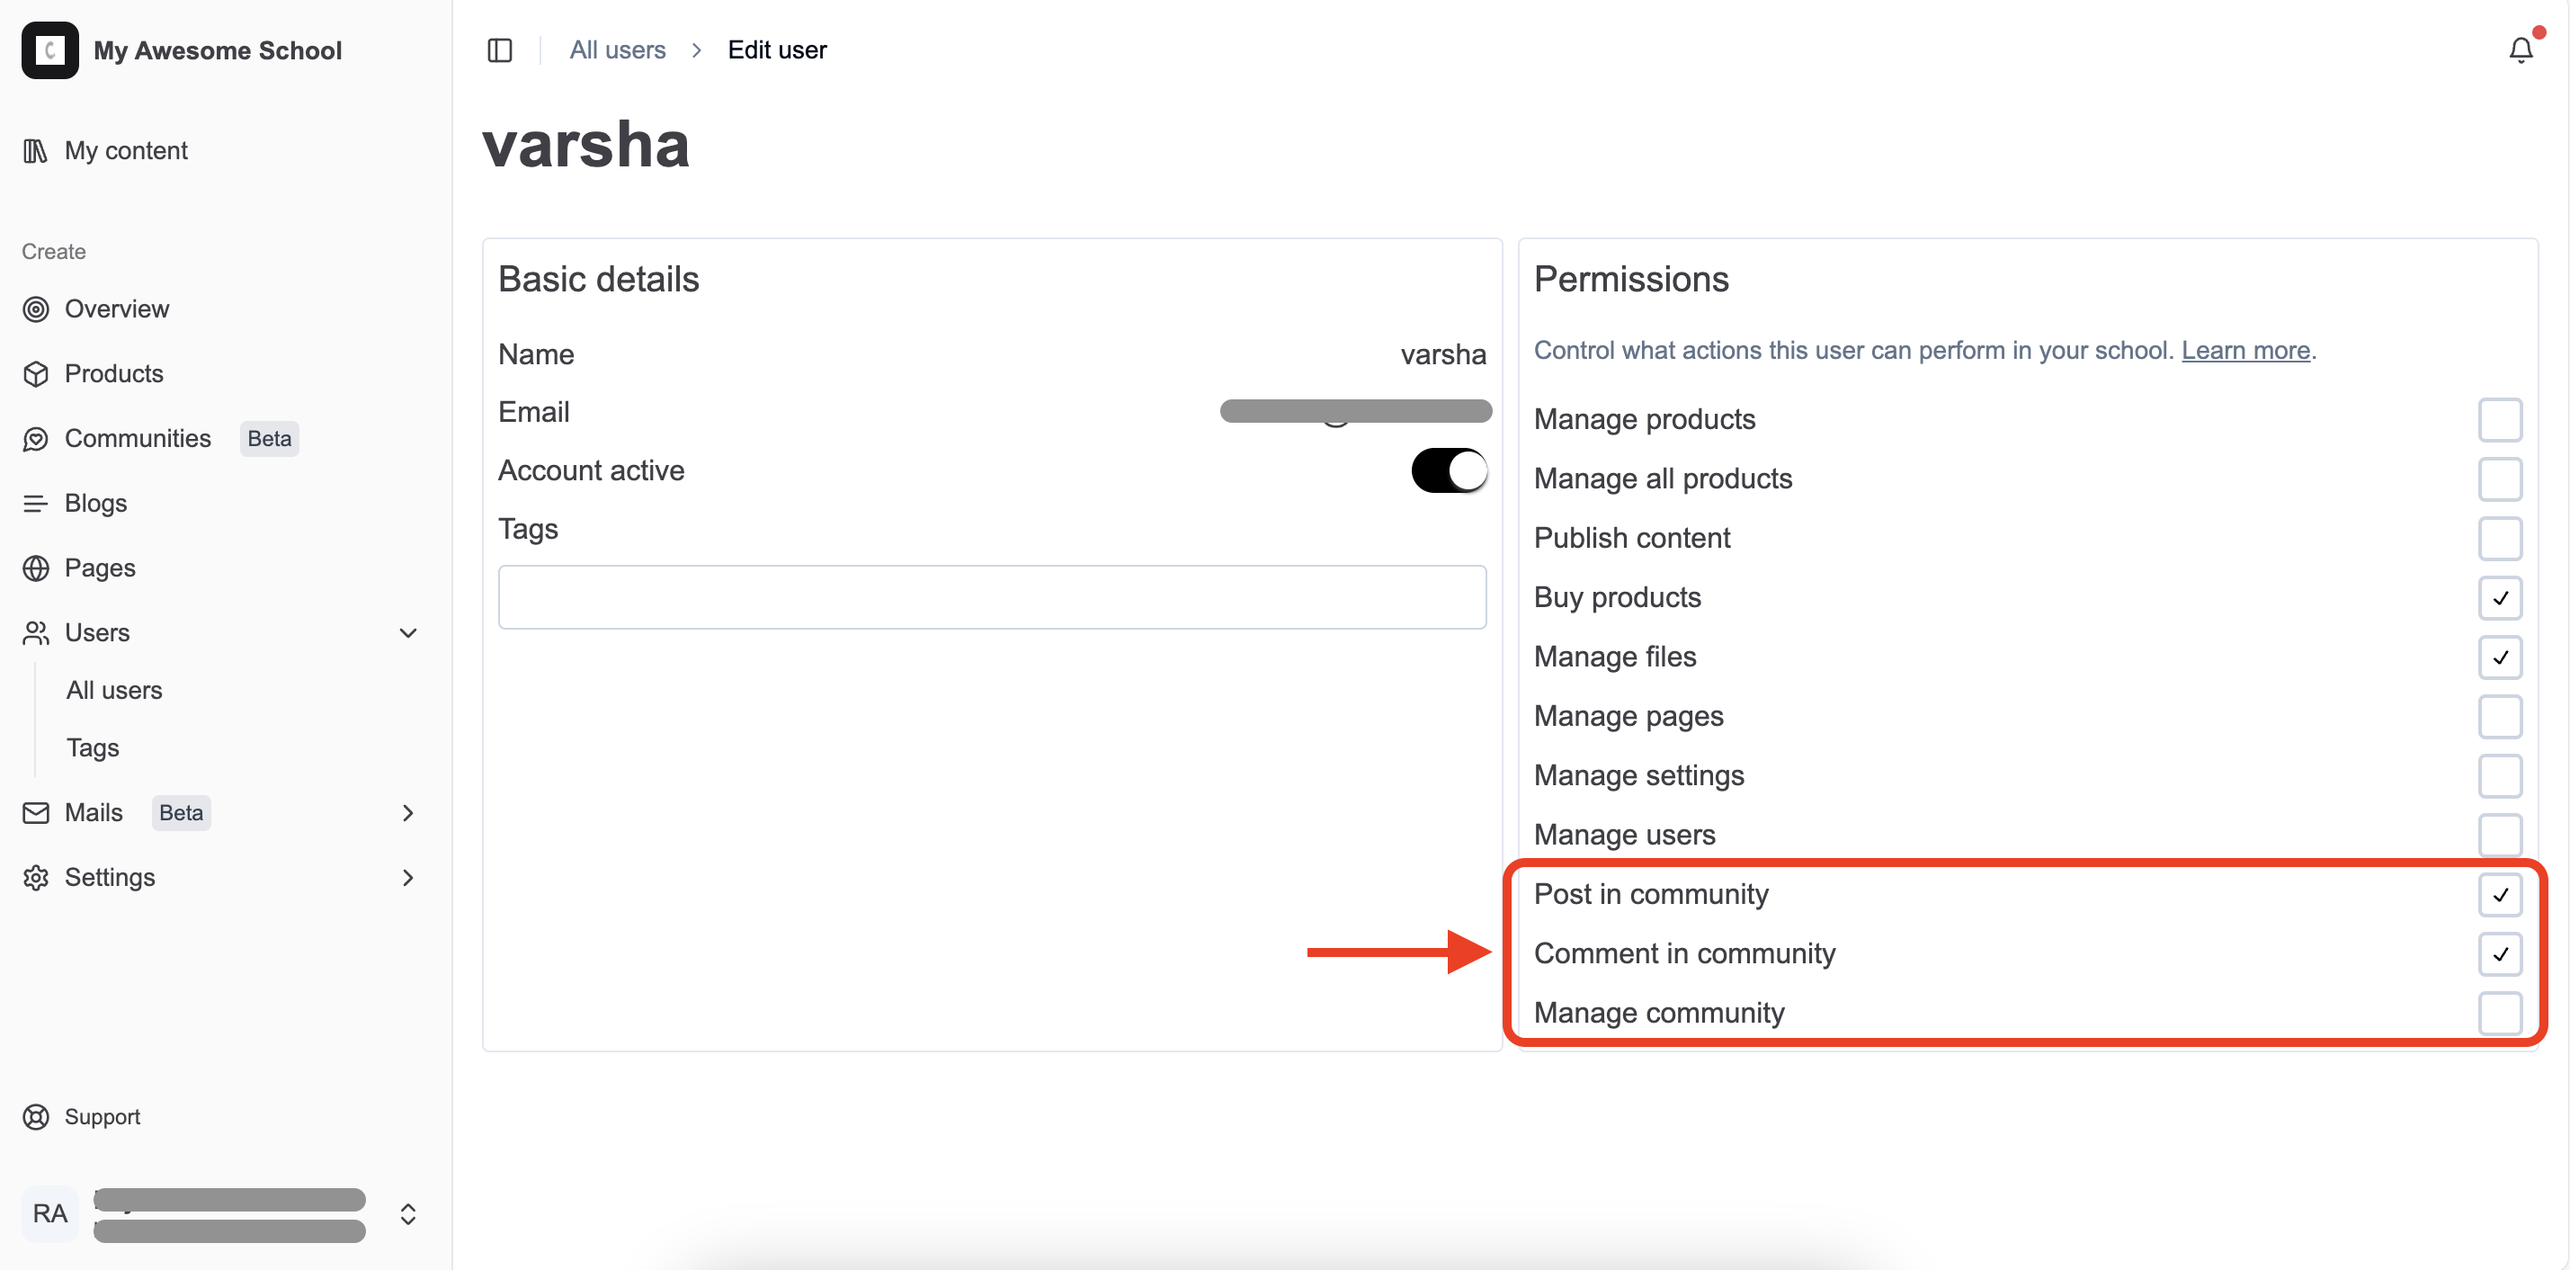
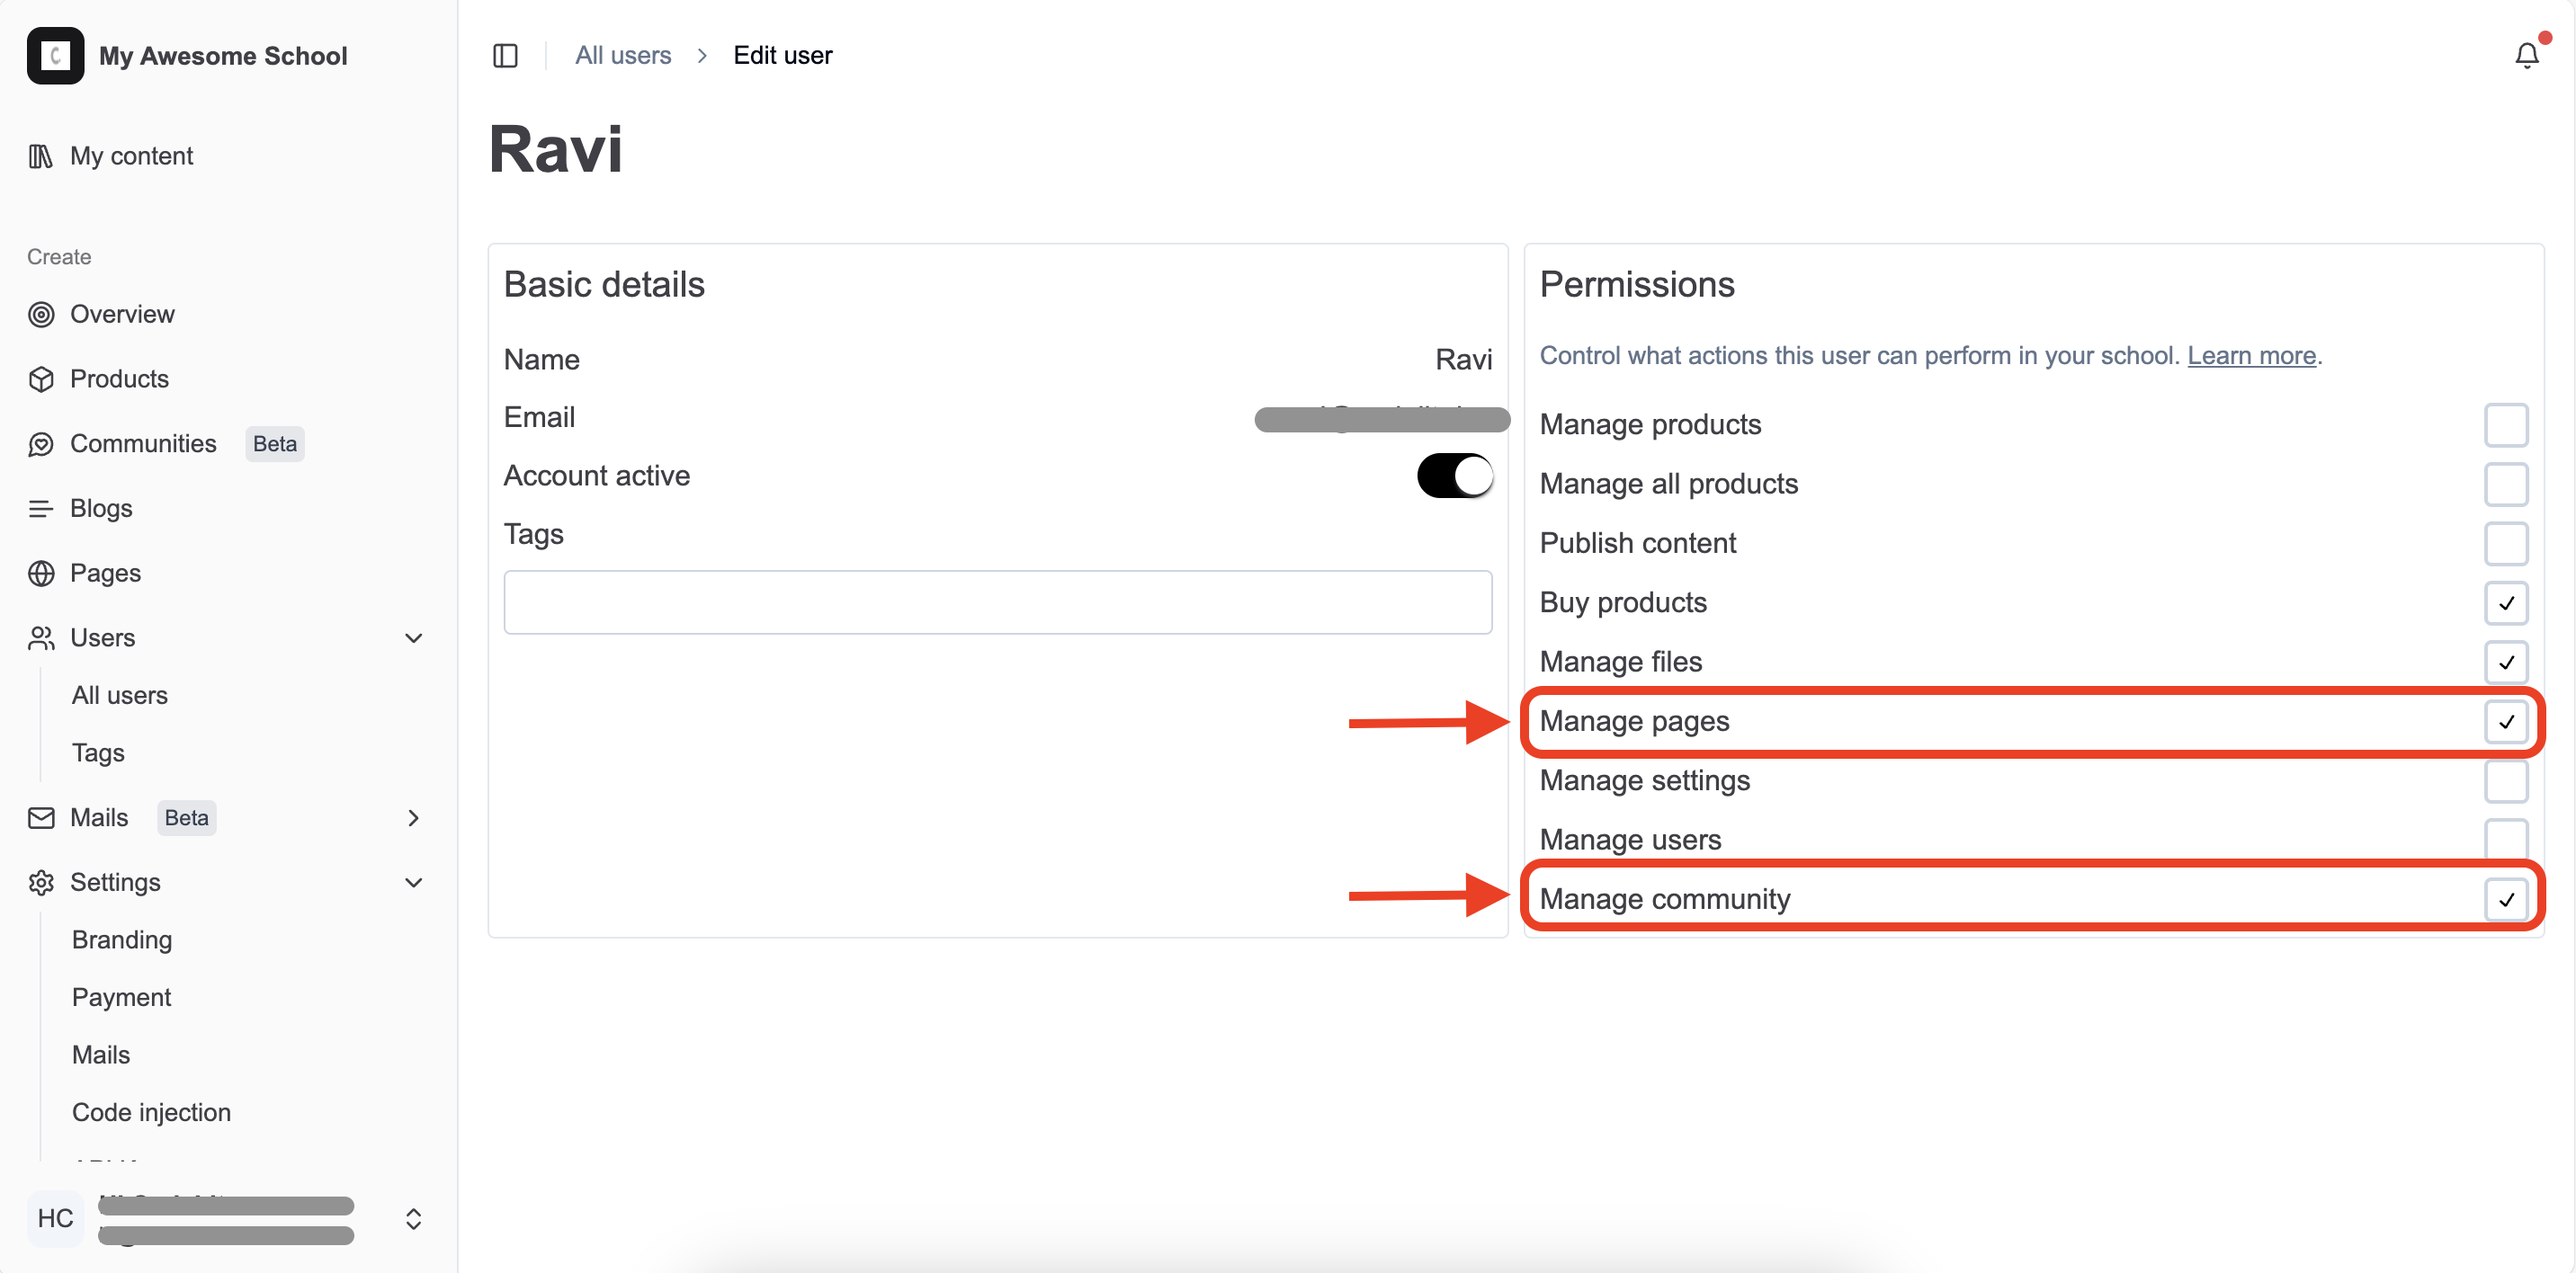
Updated docs.

diff --git a/apps/docs/src/pages/en/communities/manage-members.md b/apps/docs/src/pages/en/communities/manage-members.md
@@ -8,7 +8,7 @@ Managing members in your community is essential for maintaining an active and en
 
 > The feature is currently in beta, which means you may encounter bugs. Please report them in our <a href="https://discord.com/invite/GR4bQsN" target="_blank">Discord</a> group if you run into any.
 
-### Viewing Memberships
+## Viewing Memberships
 
 1. Navigate to the **Memberships** section in your community dashboard.
 2. Here, you can see a list of all members, including their:
@@ -16,11 +16,12 @@ Managing members in your community is essential for maintaining an active and en
     - **Email**
     - **Subscription ID** (if available)
     - **Subscription Method** (if available, e.g., Stripe)
-    - **Status** (Pending, Active, Rejected)
+    - **[Status](#changing-member-status)** (Pending, Active, Rejected)
+    - **[Role](#changing-member-role)** (Comment, Post, Moderate)
 
 ![Community membership dashboard](/assets/communities/membership-dashboard.png)
 
-### Changing Member Status
+## Changing Member Status
 
 1. Locate the member whose status you want to change.
 2. Click on the **Circular Arrow Icon** button next to the member's status to cycle through the statuses:
@@ -28,18 +29,26 @@ Managing members in your community is essential for maintaining an active and en
     - **Active**: The member is fully approved and can participate in the community.
     - **Rejected**: The member's request has been denied.
 
-### Rejecting a Membership Request
+## Changing Member Role
+
+1. Locate the member whose role you want to change.
+2. Click on the **Circular Arrow Icon** button next to the member's role to cycle through the statuses:
+    - **Comment**: The member can like posts and leave comments. In free communities, this is the default role for new members.
+    - **Post**: The member can create original posts in addition to commenting and liking. Paid subscribers and auto-joined members start with this role.
+    - **Moderate**: The member can moderate the community, with all permissions except deleting the community.
+
+## Rejecting a Membership Request
 
 1. When transitioning a member to the **Rejected** state, you will be prompted to provide a reason for rejection.
 2. Enter the reason in the provided text box.
 3. Click **Confirm Rejection** to finalize the action.
 
-### Handling Membership Requests
+## Handling Membership Requests
 
 1. Review new membership requests regularly to ensure timely responses.
 2. Use the **Auto Accept Members** setting to automatically approve new members if desired.
 
-### Membership Details
+## Membership Details
 
 -   **Subscription ID**: Unique identifier for the member's subscription (if available).
 -   **Subscription Method**: The payment method used by the member (if available, e.g., Stripe).

diff --git a/apps/docs/src/pages/en/communities/manage-member-permissions.md b/apps/docs/src/pages/en/communities/manage-member-permissions.md
@@ -18,9 +18,8 @@ Managing member permissions is essential for controlling what actions members ca
 
 4. Edit permissions using the permissions panel.
 
-    - **Post in community**: Enable or disable the user's ability to create new posts in the community.
-    - **Comment in community**: Enable or disable the user's ability to comment on existing posts.
-    - **Manage community**: Enable or disable the user's ability to manage the community settings and content.
+    - **Manage community**: The user will be able to see, create and delete communities.
+    - **Manage pages**: The user will be able to edit the communities sales pages.
 
 > **Global Impact**: Changes to a user's permissions will affect all communities they are a member of. Ensure that the permissions you set are appropriate for the user's role across all communities.
 
